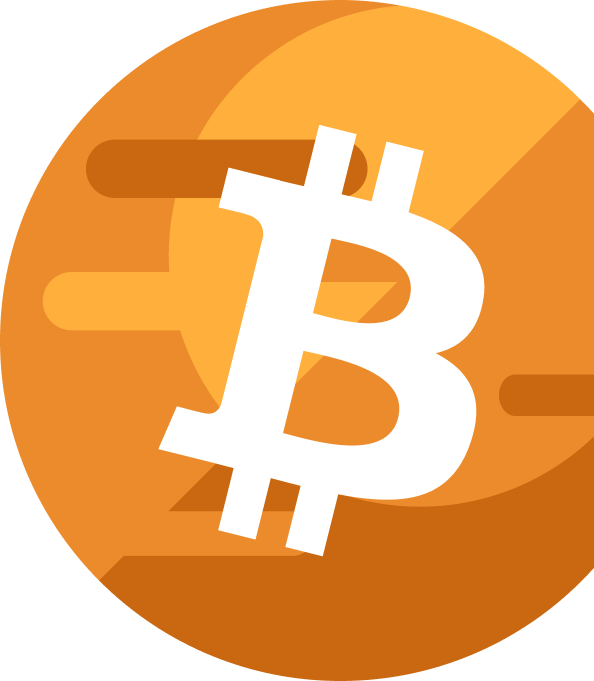
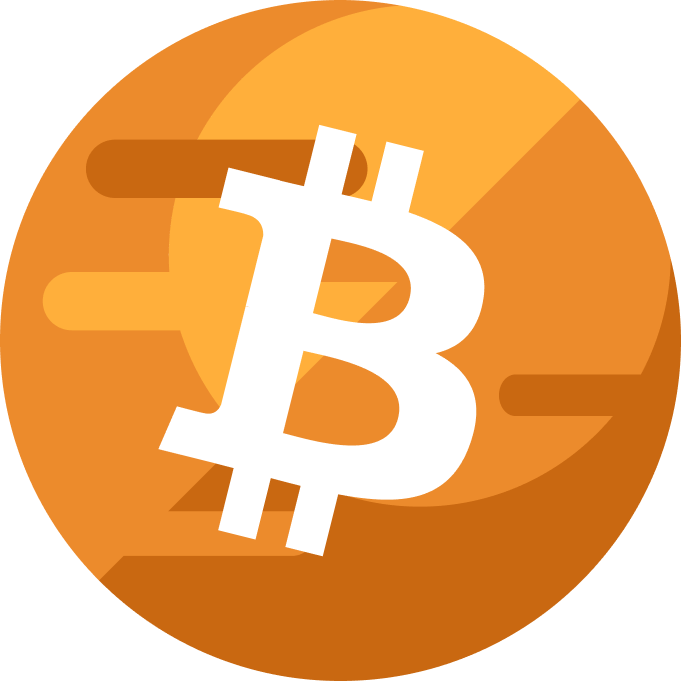
add bit image

diff --git a/src/App.js b/src/App.js
@@ -83,7 +83,14 @@ const App = () => {
       <div>
         <img
           src={Bit}
-          style={{ position: "absolute", top: "50vh", right: 0, zIndex: "0" }}
+          style={{
+            position: "absolute",
+            top: "50vh",
+            right: "-5vw",
+            zIndex: "1",
+          }}
+          className="bit"
+          alt="bit"
         />
         <img
           src={Eth}
@@ -94,6 +101,7 @@ const App = () => {
             zIndex: "0",
           }}
           className="eth"
+          alt="eth"
         />
         <img
           src={Poly}
@@ -104,6 +112,7 @@ const App = () => {
             zIndex: "0",
           }}
           className="poly"
+          alt="poly"
         />
         <img
           src={Ava}
@@ -114,6 +123,7 @@ const App = () => {
             zIndex: "0",
           }}
           className="ava"
+          alt="ava"
         />
         <img
           src={Sol}
@@ -124,42 +134,61 @@ const App = () => {
             zIndex: "0",
           }}
           className="sol"
+          alt="sol"
         />
         <img
           src={rocket}
-          style={{ position: "absolute", top: "30vh", zIndex: "0" }}
+          style={{ position: "absolute", top: "30vh", zIndex: "1" }}
+          className="rocket"
+          alt="rocket"
         />
         <img
           src={star}
           style={{ position: "absolute", top: "70vh", left: "45vw" }}
+          className="star"
+          alt="star"
         />
         <img
           src={star}
           style={{ position: "absolute", top: "120vh", left: "40vw" }}
+          className="star"
+          alt="star"
         />
         <img
           src={star}
           style={{ position: "absolute", top: "100vh", left: "65vw" }}
+          className="star"
+          alt="star"
         />
         <img
           src={star}
           style={{ position: "absolute", top: "135vh", right: "20vw" }}
+          className="star"
+          alt="star"
         />
         <img
           src={star}
           style={{ position: "absolute", top: "130vh", right: "10vw" }}
+          className="star"
+          alt="star"
         />
         <img
           src={star}
           style={{ position: "absolute", top: "30vh", right: "15vw" }}
+          className="star"
+          alt="star"
         />
         <img
           src={star}
           style={{ position: "absolute", top: "40vh", right: "5vw" }}
+          className="star"
+          alt="star"
         />
-         <img
+        <img
           src={star}
           style={{ position: "absolute", top: "30vh", left: "45vw" }}
+          className="star"
+          alt="star"
         />
       </div>
       <Content id="enter" className="site-layout" style={{ padding: "0 50px" }}>
@@ -195,12 +224,12 @@ const App = () => {
               justifyContent: "space-between",
             }}
           >
-            <Typography className="text">
+            <Typography className="text define">
               Choose a token pool (e.g. Solana, Polygon), <br /> deposit tokens
               and submit price prediction for <br />
               that token
             </Typography>
-            <img src={row} />
+            <img src={row} className="info" alt="info" />
           </div>
           <div
             style={{
@@ -210,8 +239,8 @@ const App = () => {
               justifyContent: "space-between",
             }}
           >
-            <img src={circle} />
-            <Typography className="text">
+            <img src={circle} className="info" alt="info" />
+            <Typography className="text define">
               Winners selected every day based on the <br />
               best predictions and awarded the yields <br />
               generated from the pools
@@ -226,12 +255,12 @@ const App = () => {
               justifyContent: "space-between",
             }}
           >
-            <Typography className="text">
+            <Typography className="text define">
               Even if you don't win, you get to still keep
               <br />
               all of your principle
             </Typography>
-            <img src={whirl} />
+            <img src={whirl} className="info" alt="info" />
           </div>
         </div>
         <div

diff --git a/src/App.less b/src/App.less
@@ -80,10 +80,6 @@
   margin-top: @header-height;
 }
 
-.site-layout .site-layout-background {
-  // background: #fff;
-}
-
 .site-layout .site-layout-background .header-text {
   font-family: "Industry";
   font-style: normal;
@@ -91,6 +87,7 @@
   font-size: 74px;
   line-height: 96px;
   color: #ffbf1c;
+  z-index: 10;
 }
 
 .site-layout .how-it-works .header-text {
@@ -114,6 +111,9 @@
   z-index: 10;
 }
 
+.bit {
+  animation: spin 30s linear infinite;
+}
 .eth {
   animation: spin 10s linear infinite;
 }
@@ -127,6 +127,12 @@
   animation: spin 5s linear infinite;
 }
 
+img {
+  max-width: 100%;
+  max-height: 100%;
+  display: block; /* remove extra space below image */
+}
+
 @keyframes spin {
   100% {
     -webkit-transform: rotate(360deg);
@@ -134,5 +140,38 @@
   }
 }
 
-@media (prefers-reduced-motion: no-preference) {
+/* Use a media query to add a break point at 800px: */
+@media screen and (max-width: 1400px) {
+  .bit {
+    width: 50%; /* The width is 100%, when the viewport is 800px or smaller */
+  }
+  .eth {
+    width: 20%; /* The width is 100%, when the viewport is 800px or smaller */
+  }
+  .sol {
+    width: 25%; /* The width is 100%, when the viewport is 800px or smaller */
+  }
+  .ava {
+    width: 8%; /* The width is 100%, when the viewport is 800px or smaller */
+  }
+  .poly {
+    width: 10%; /* The width is 100%, when the viewport is 800px or smaller */
+  }
+  .star {
+    width: 2%;
+  }
+
+  .info {
+    width: 50%;
+  }
+
+  .define {
+    font-family: "Industry";
+    font-style: normal;
+    font-weight: 600;
+    font-size: 24px;
+    line-height: 26px;
+    position: relative;
+    z-index: 10;
+  }
 }
